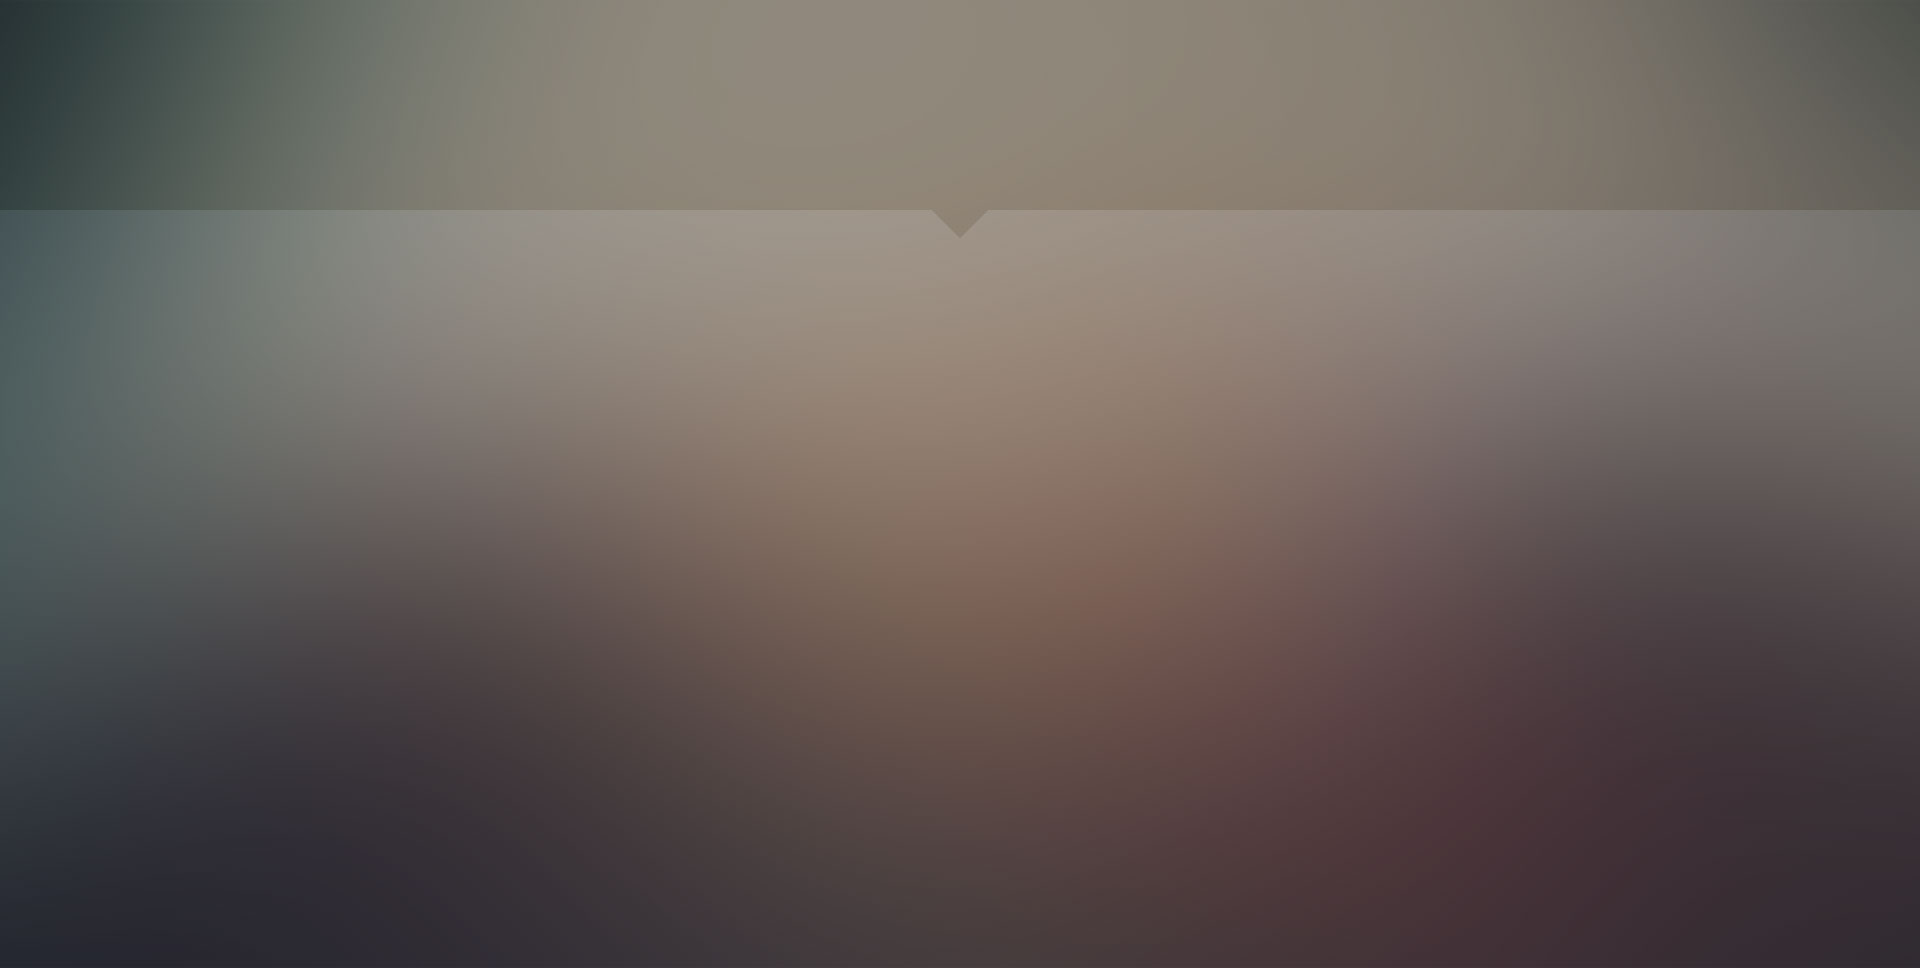
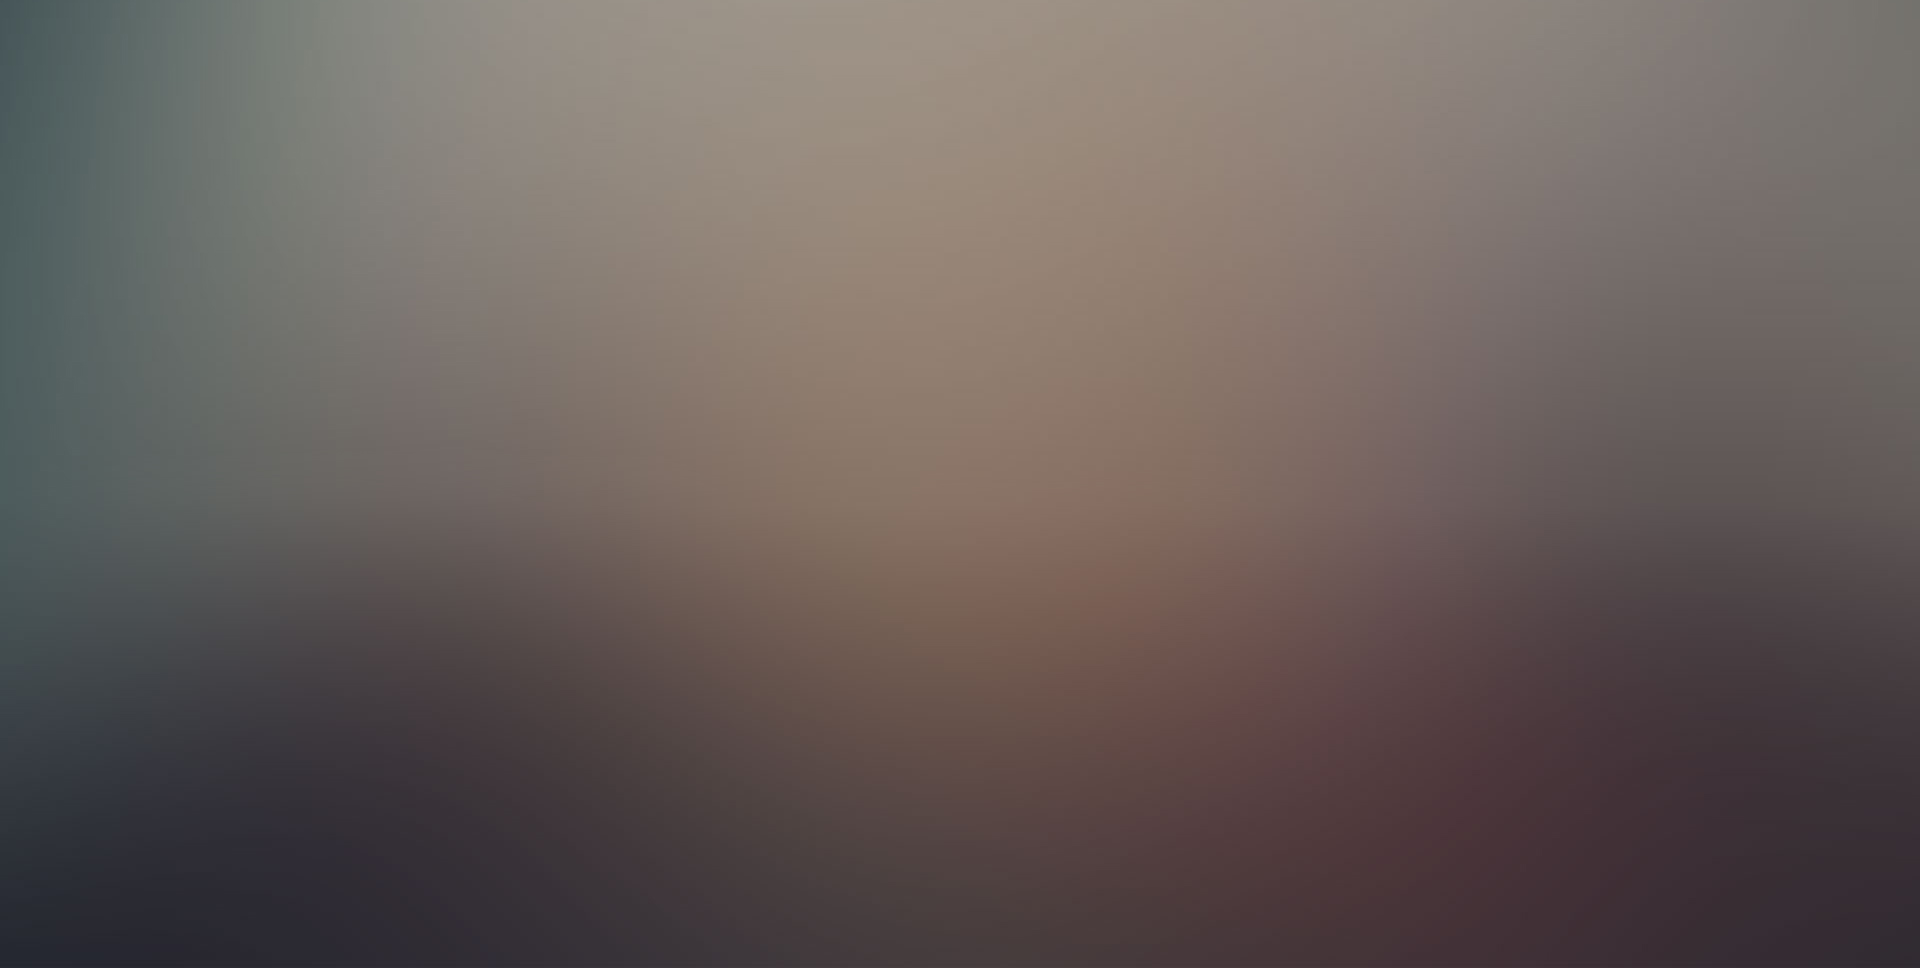
Login Screen Design Update

Changed region(s): [[0.0, 0.0, 0.2188, 0.2169], [0.875, 0.0, 1.0, 0.155]]

diff --git a/skin/adminhtml/default/admintheme/boxes.css b/skin/adminhtml/default/admintheme/boxes.css
@@ -1716,7 +1716,7 @@ div.autocomplete ul li { padding:.5em .7em; min-height:32px; cursor:pointer; tex
 }
 @media(min-width: 1200px){
     .login-container{
-        padding-top: 180px;
+        padding-top: 80px;
     }
 }
 @media(min-width: 1800px){
@@ -1724,7 +1724,7 @@ div.autocomplete ul li { padding:.5em .7em; min-height:32px; cursor:pointer; tex
         padding-top: 240px;
     }
 }
-.login-box{background:url(images/cmsmart/pdc.png) top center no-repeat; padding-top: 140px;}
+.login-box{background:url(images/cmsmart/pdc.png) top center no-repeat; padding-top: 170px;}
 .login-form{color:#fff; text-align:left; }
 .login-form .input-left{ float:left; }
 .login-form .input-right{ float:right; }
